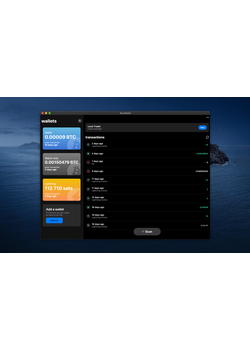
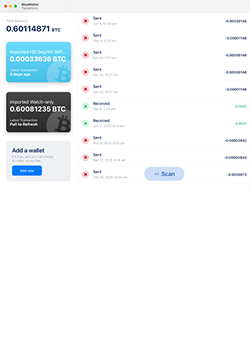
replace images to 250350

diff --git a/_wallets/bluewallet.md b/_wallets/bluewallet.md
@@ -30,11 +30,11 @@ platform:
       - name: android
         <<: *DEFAULT-MOBILE
         link: "https://play.google.com/store/apps/details?id=io.bluewallet.bluewallet"
-        screenshot: "bluewalletandroid.jpg"
+        screenshot: "bluewalletandroid.png"
       - name: ios
         <<: *DEFAULT-MOBILE
         link: "https://apps.apple.com/us/app/bluewallet-bitcoin-wallet/id1376878040"
-        screenshot: "bluewalletios.jpg"
+        screenshot: "bluewalletios.png"
   - desktop:
     name: desktop
     os: